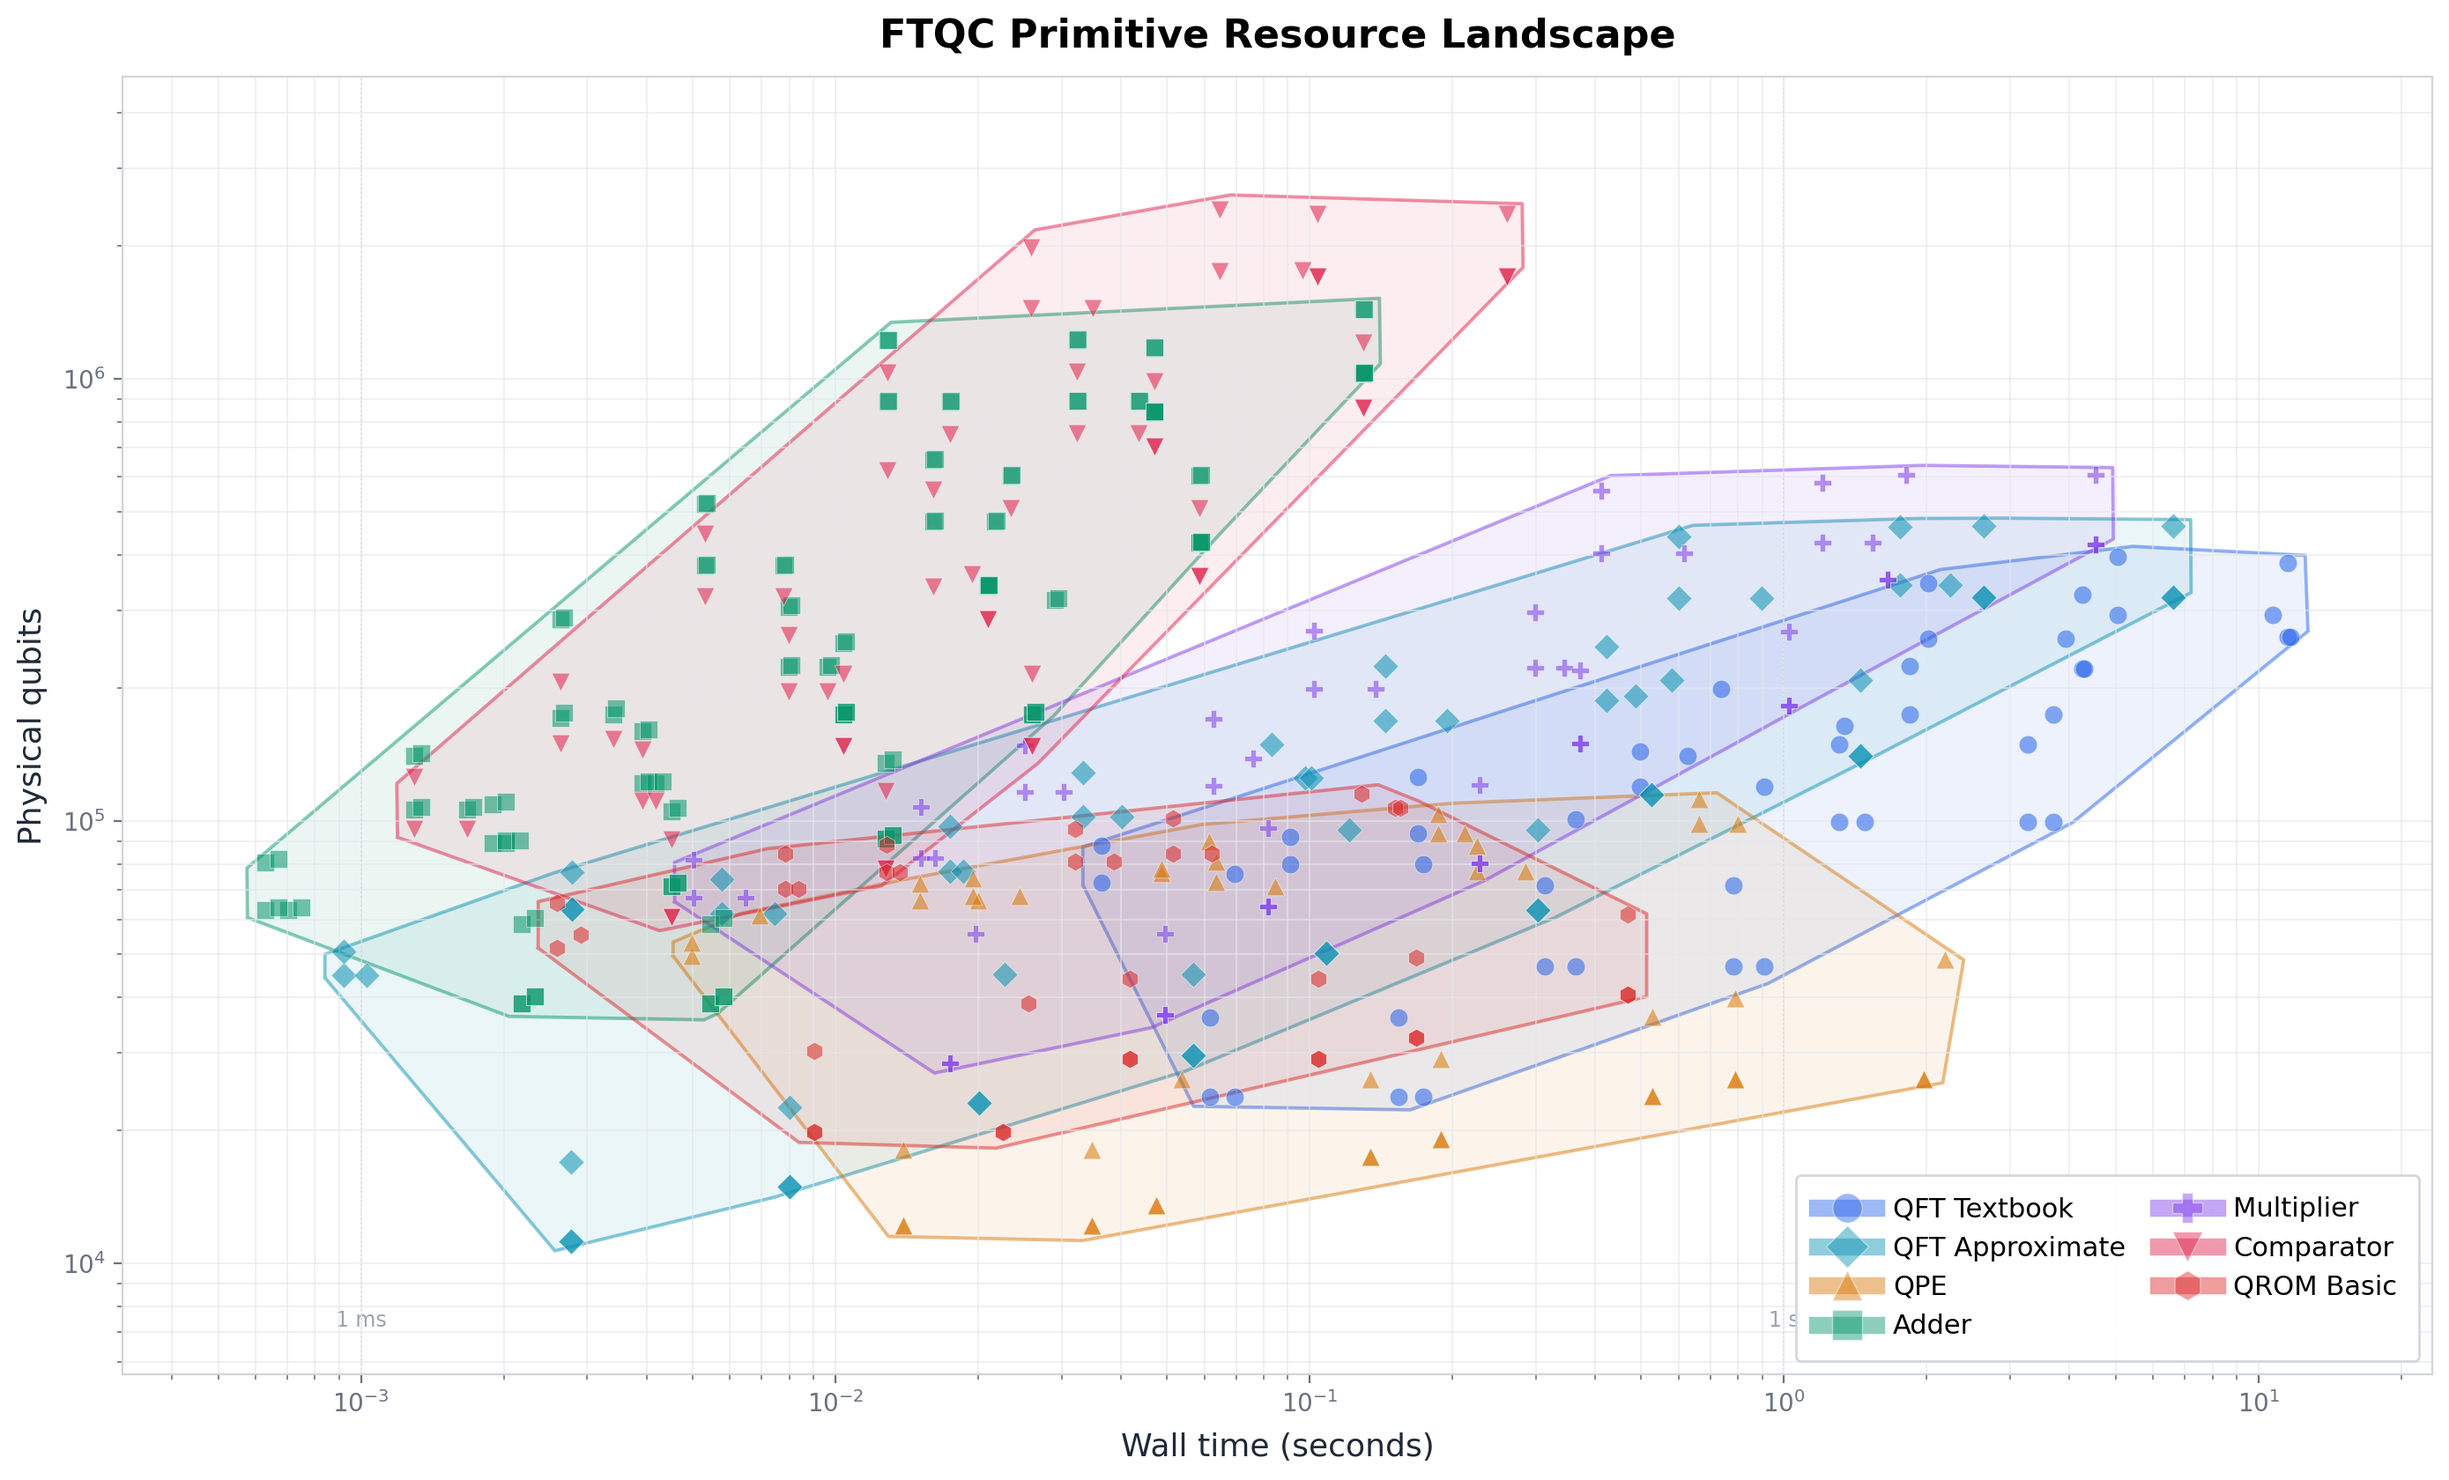
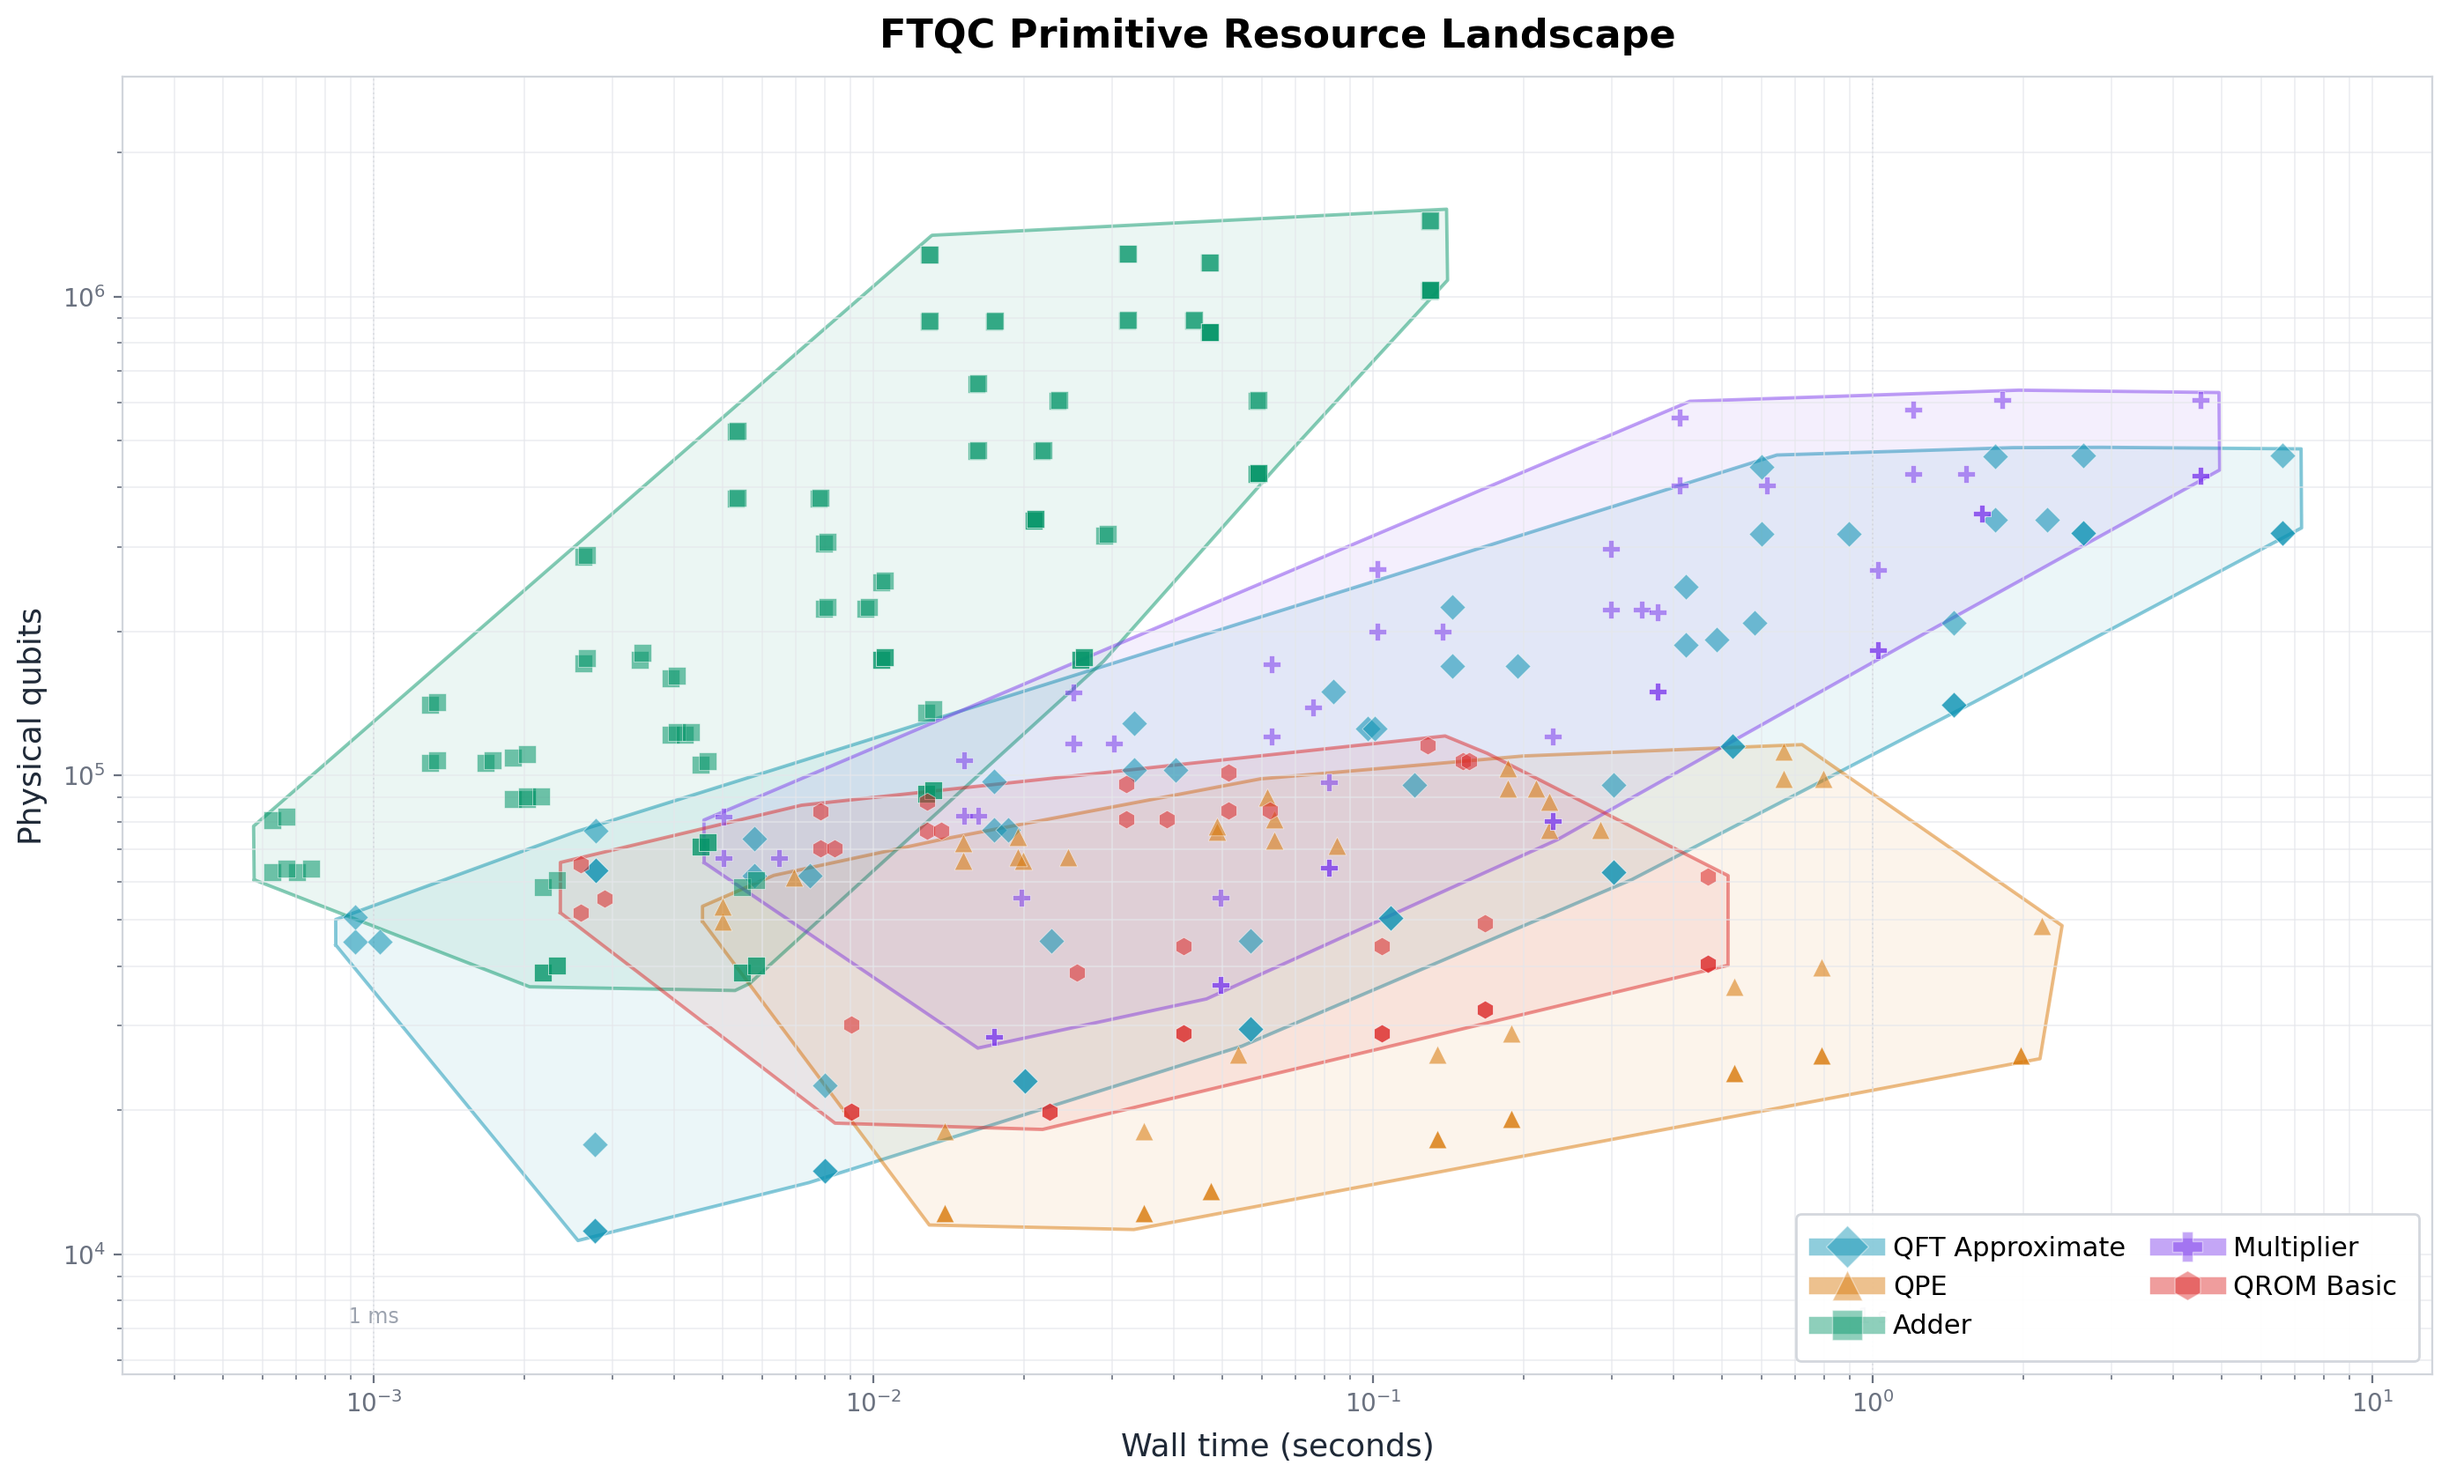
refactor(experiments): split landscape.py into plot_landscape and plot_regime_identification

diff --git a/experiments/plot_regime_identification.py b/experiments/plot_regime_identification.py
@@ -1,0 +1,116 @@
+"""Cost-coefficient regimes of modular exponentiation: Qualtran's stock ModExp
+(flat) against GE19's windowed construction (falling as 1/lg^2n, ASSUMPTIONS.md
+sec. 6), on one size grid. Writes results/charts/regime_identification.png."""
+
+from __future__ import annotations
+
+import math
+from pathlib import Path
+from typing import NamedTuple
+
+import matplotlib.pyplot as plt
+
+from _style import PALETTE, apply_theme, light_grid, savefig
+from qrepro.references.ge19 import modexp_coefficient_series, reproduce_ge19_logical
+from qrepro.references.ge19_windowed import reproduce_ge19_windowed
+from qrepro.references.values import GE19, WINDOWED_COEFFICIENT_SIZES
+
+
+class RegimeSeries(NamedTuple):
+    """Both measured n_ccz/(n_e*n^2) series over WINDOWED_COEFFICIENT_SIZES,
+    plus the count ratio between the two constructions at GE19's n."""
+
+    modexp: tuple[tuple[int, float], ...]
+    windowed: tuple[tuple[int, float], ...]
+    gap: float
+
+
+def collect() -> RegimeSeries:
+    """Measure both constructions on one domain, so the regimes are comparable
+    (their pinned defaults differ: ModExp's own grid stops at n=2048)."""
+    windowed = reproduce_ge19_windowed()
+    logical = reproduce_ge19_logical()
+    n_ref = GE19["n"]
+    series = RegimeSeries(
+        modexp=modexp_coefficient_series(WINDOWED_COEFFICIENT_SIZES),
+        windowed=windowed.coefficient_series,
+        gap=logical.modexp_ccz_count / windowed.by_n(n_ref).total_ccz,
+    )
+    print(f"n={n_ref}: windowed is {series.gap:.1f}x cheaper than stock ModExp")
+    return series
+
+
+def plot(series: RegimeSeries, *paths: Path) -> None:
+    """Draw both series on one log-log axis with the 1/lg^2n asymptote."""
+    fig, ax = plt.subplots(figsize=(8, 5.2))
+
+    ns, cs = zip(*series.modexp)
+    ax.plot(ns, cs, "o-", color=PALETTE["red"], ms=6, lw=2)
+    wn, wc = zip(*series.windowed)
+    ax.plot(wn, wc, "o-", color=PALETTE["blue"], ms=6, lw=2)
+
+    # 1/lg^2n reference anchored at the large-n end, so it reads as the
+    # asymptote; subleading terms stay visible at small n, as in the tables.
+    scale = wc[-1] * math.log2(wn[-1]) ** 2
+    reference = [scale / math.log2(n) ** 2 for n in wn]
+    ax.plot(wn, reference, "--", color=PALETTE["gray"], lw=1.6)
+
+    # Series labels in place of a legend; anchors are hand-placed against the
+    # pinned size grid.
+    ax.annotate(
+        "Qualtran ModExp\n"
+        r"constant $\approx 10$ (reference, non-windowed construction)",
+        xy=(132, 6.6),
+        color=PALETTE["red"],
+        fontsize=10,
+        va="top",
+    )
+    ax.annotate(
+        "WindowedModExp\n" r"falls as $1/\lg^2 n$ (windowed construction)",
+        xy=(560, 0.42),
+        color=PALETTE["blue"],
+        fontsize=10,
+    )
+    ax.annotate(
+        r"$\propto 1/\lg^2 n$",
+        xy=(136, 0.212),
+        color=PALETTE["gray"],
+        fontsize=9.5,
+    )
+
+    # Gap callout: a double arrow spanning the two series at GE19's n.
+    n_ref = GE19["n"]
+    top = dict(series.modexp)[n_ref] * 0.86
+    bottom = dict(series.windowed)[n_ref] * 1.15
+    ax.annotate(
+        "",
+        xy=(n_ref, bottom),
+        xytext=(n_ref, top),
+        arrowprops=dict(arrowstyle="<->", color=PALETTE["dark_gray"], lw=1.2),
+    )
+    ax.annotate(
+        f"{series.gap:.0f}x at n = {n_ref}",
+        xy=(n_ref * 1.15, math.sqrt(top * bottom)),  # beside the arrow's midpoint
+        fontsize=10,
+        color=PALETTE["dark_gray"],
+    )
+
+    ax.set_xscale("log", base=2)
+    ax.set_yscale("log")
+    ax.set_xlabel("modulus size n (bits)")
+    ax.set_ylabel(r"$n_{ccz} \, / \, (n_e \cdot n^2)$")
+    ax.set_title("Modular exponentiation: measured cost coefficient vs modulus size")
+    light_grid(ax, which="major")
+    ax.set_ylim(0.06, 14)  # headroom for the labels above and below the series
+    savefig(fig, *paths)
+
+
+def main() -> None:
+    apply_theme()
+    chart_dir = Path("results/charts")
+    chart_dir.mkdir(parents=True, exist_ok=True)
+    plot(collect(), chart_dir / "regime_identification.png")
+
+
+if __name__ == "__main__":
+    main()

diff --git a/experiments/plot_landscape.py b/experiments/plot_landscape.py
@@ -1,5 +1,5 @@
 """Log-log plot of physical_qubits vs wall_time with convex hulls per primitive
-variant, over every primitive x variant x param x surface-code config. Writes
+variant, over the DOMAINS grid x every param x surface-code config. Writes
 results/charts/landscape.png and the repo-root landscape.png the README embeds."""
 
 from __future__ import annotations
@@ -27,11 +27,6 @@ CONFIGS = [
 
 # Visually distinct domains: colour and marker per primitive variant.
 DOMAINS: dict[str, dict] = {
-    "QFT Textbook": {
-        "cases": [("qft", dict(n=n, variant="textbook")) for n in [16, 32, 64, 128]],
-        "color": "#2563EB",  # blue
-        "marker": "o",
-    },
     "QFT Approximate": {
         "cases": [("qft", dict(n=n, variant="approx")) for n in [8, 16, 32, 64, 128]],
         "color": "#0891B2",  # cyan
@@ -55,11 +50,6 @@ DOMAINS: dict[str, dict] = {
         "cases": [("arithmetic", dict(n=n, op="mul")) for n in [8, 16, 32, 64]],
         "color": "#7C3AED",  # violet
         "marker": "P",
-    },
-    "Comparator": {
-        "cases": [("arithmetic", dict(n=n, op="leq")) for n in [16, 32, 64, 128, 256]],
-        "color": "#E11D48",  # rose
-        "marker": "v",
     },
     "QROM Basic": {
         "cases": [

diff --git a/experiments/_style.py b/experiments/_style.py
@@ -13,6 +13,7 @@ PALETTE = {
     "orange": "#D97706",
     "purple": "#7C3AED",
     "gray": "#6B7280",
+    "dark_gray": "#374151",
     "teal": "#0D9488",
     "pink": "#DB2777",
 }
@@ -61,10 +62,6 @@ _RC_OVERRIDES = {
 def apply_theme() -> None:
     """Apply the shared rcParams theme. Call once per script."""
     plt.rcParams.update(_RC_OVERRIDES)
-
-
-# Canonical figure sizes.
-FIG_DUAL = (13, 5)
 
 
 def light_grid(ax, which: str = "both", axis: str = "both") -> None:
